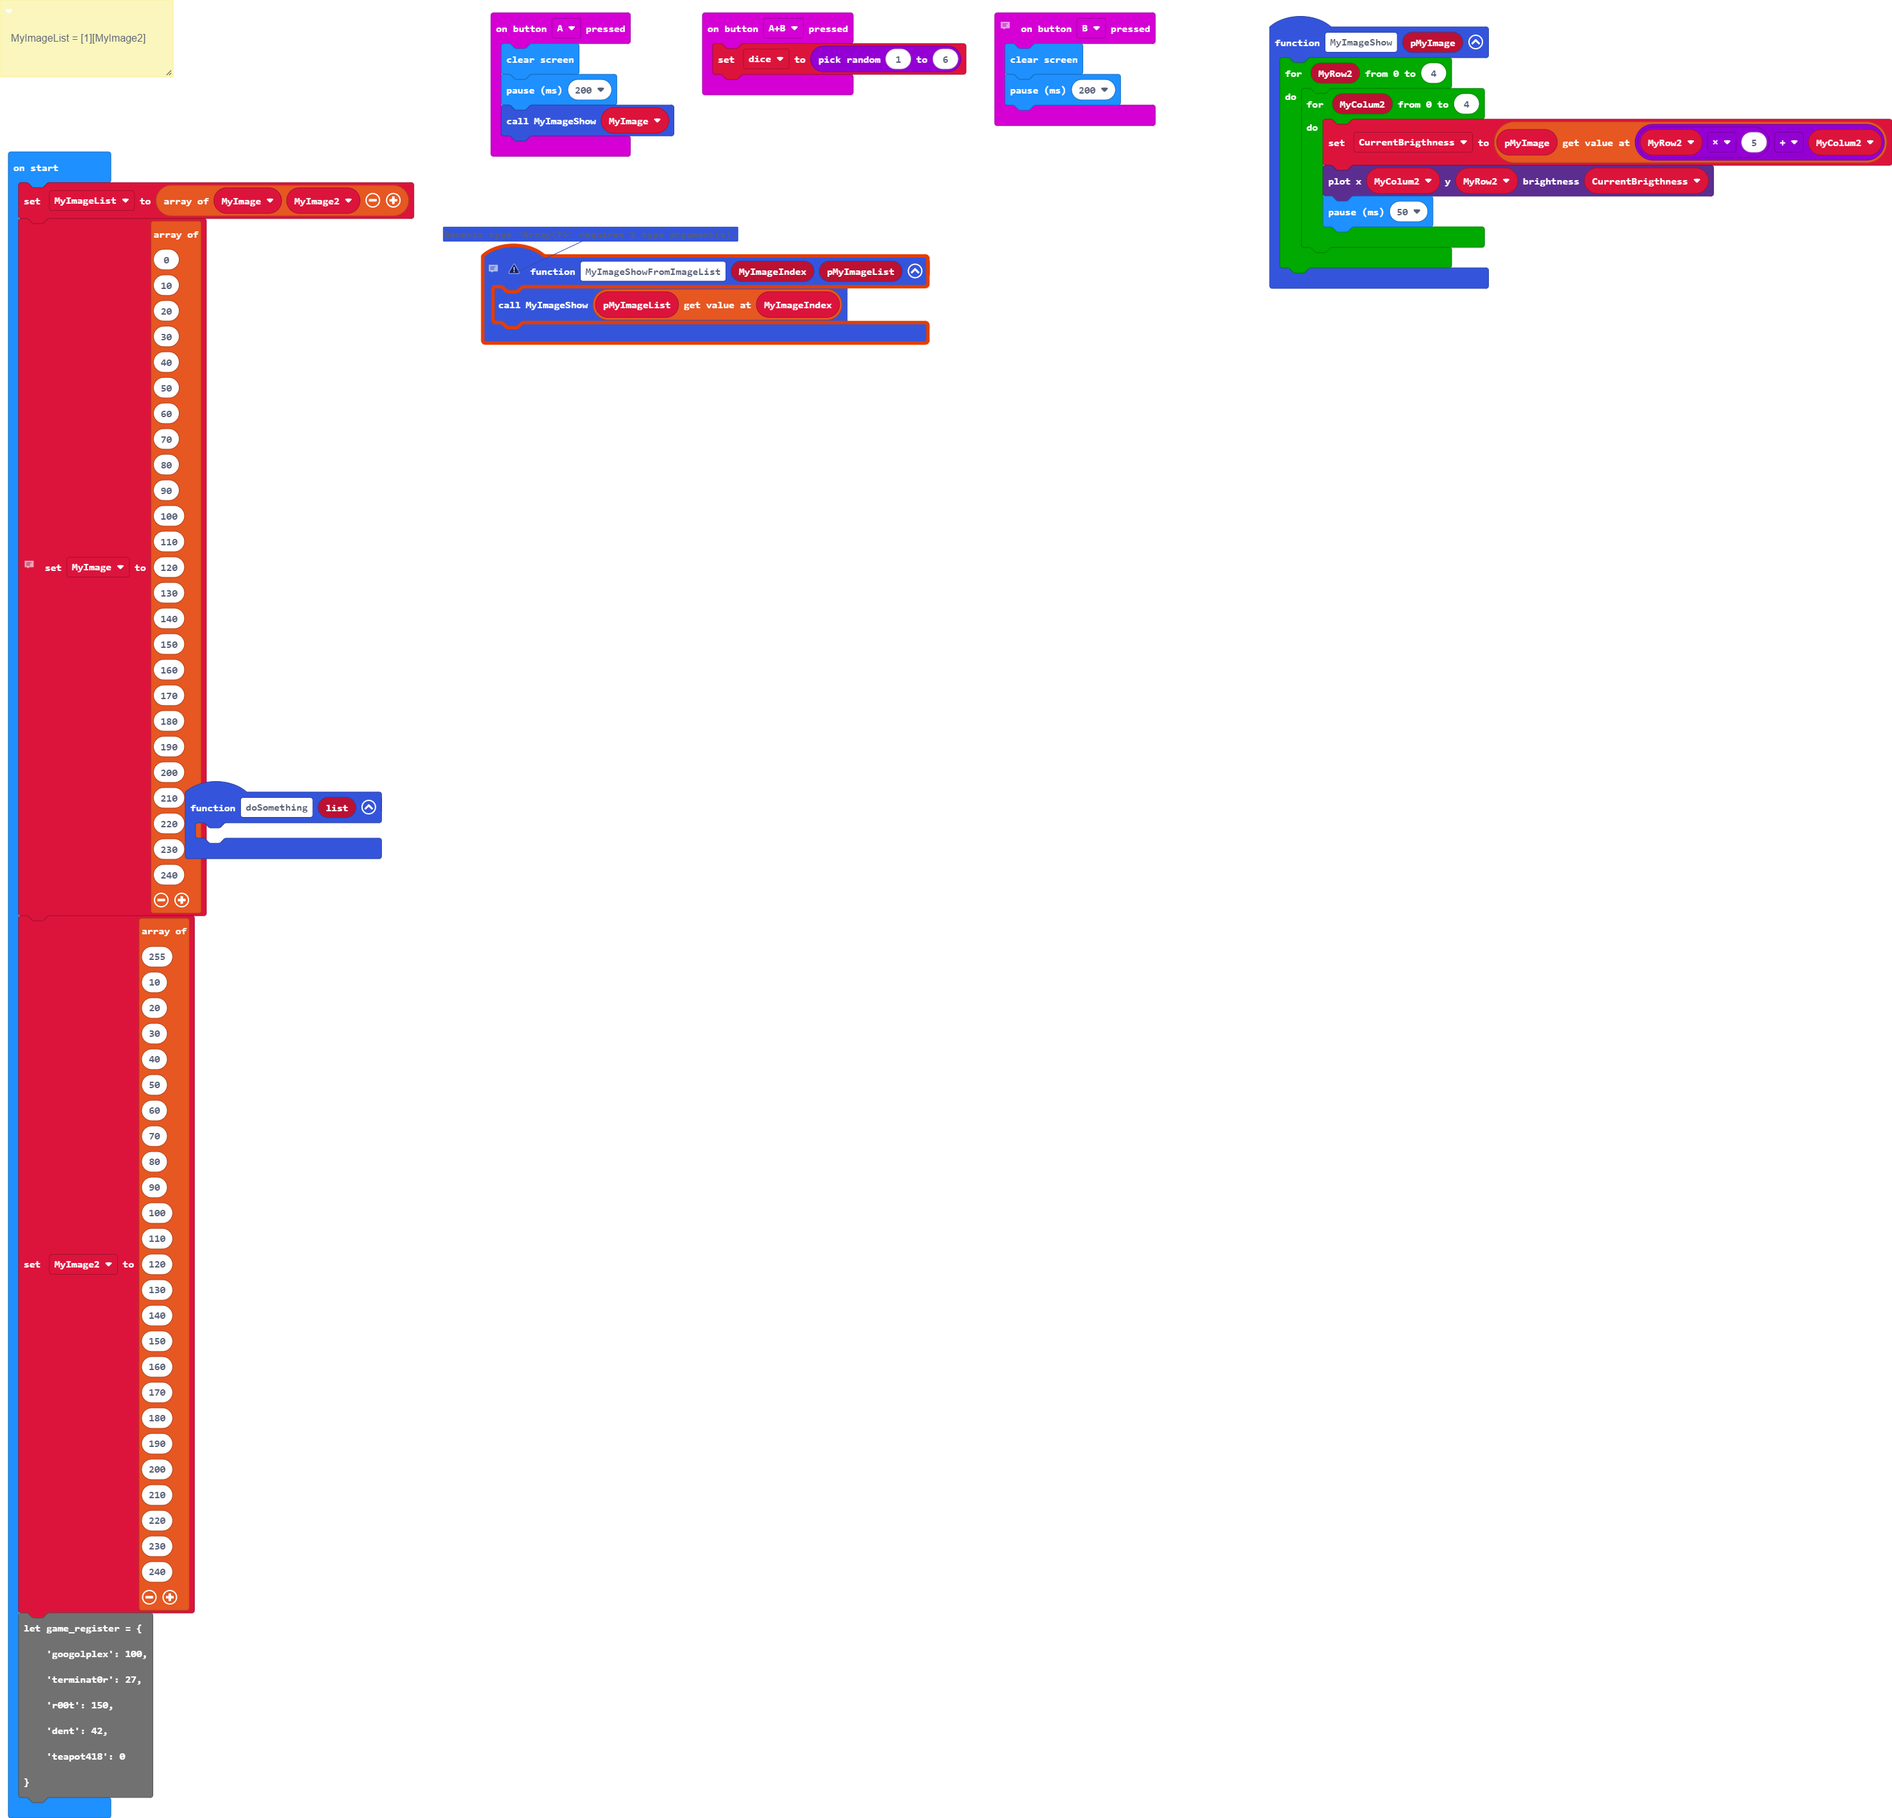
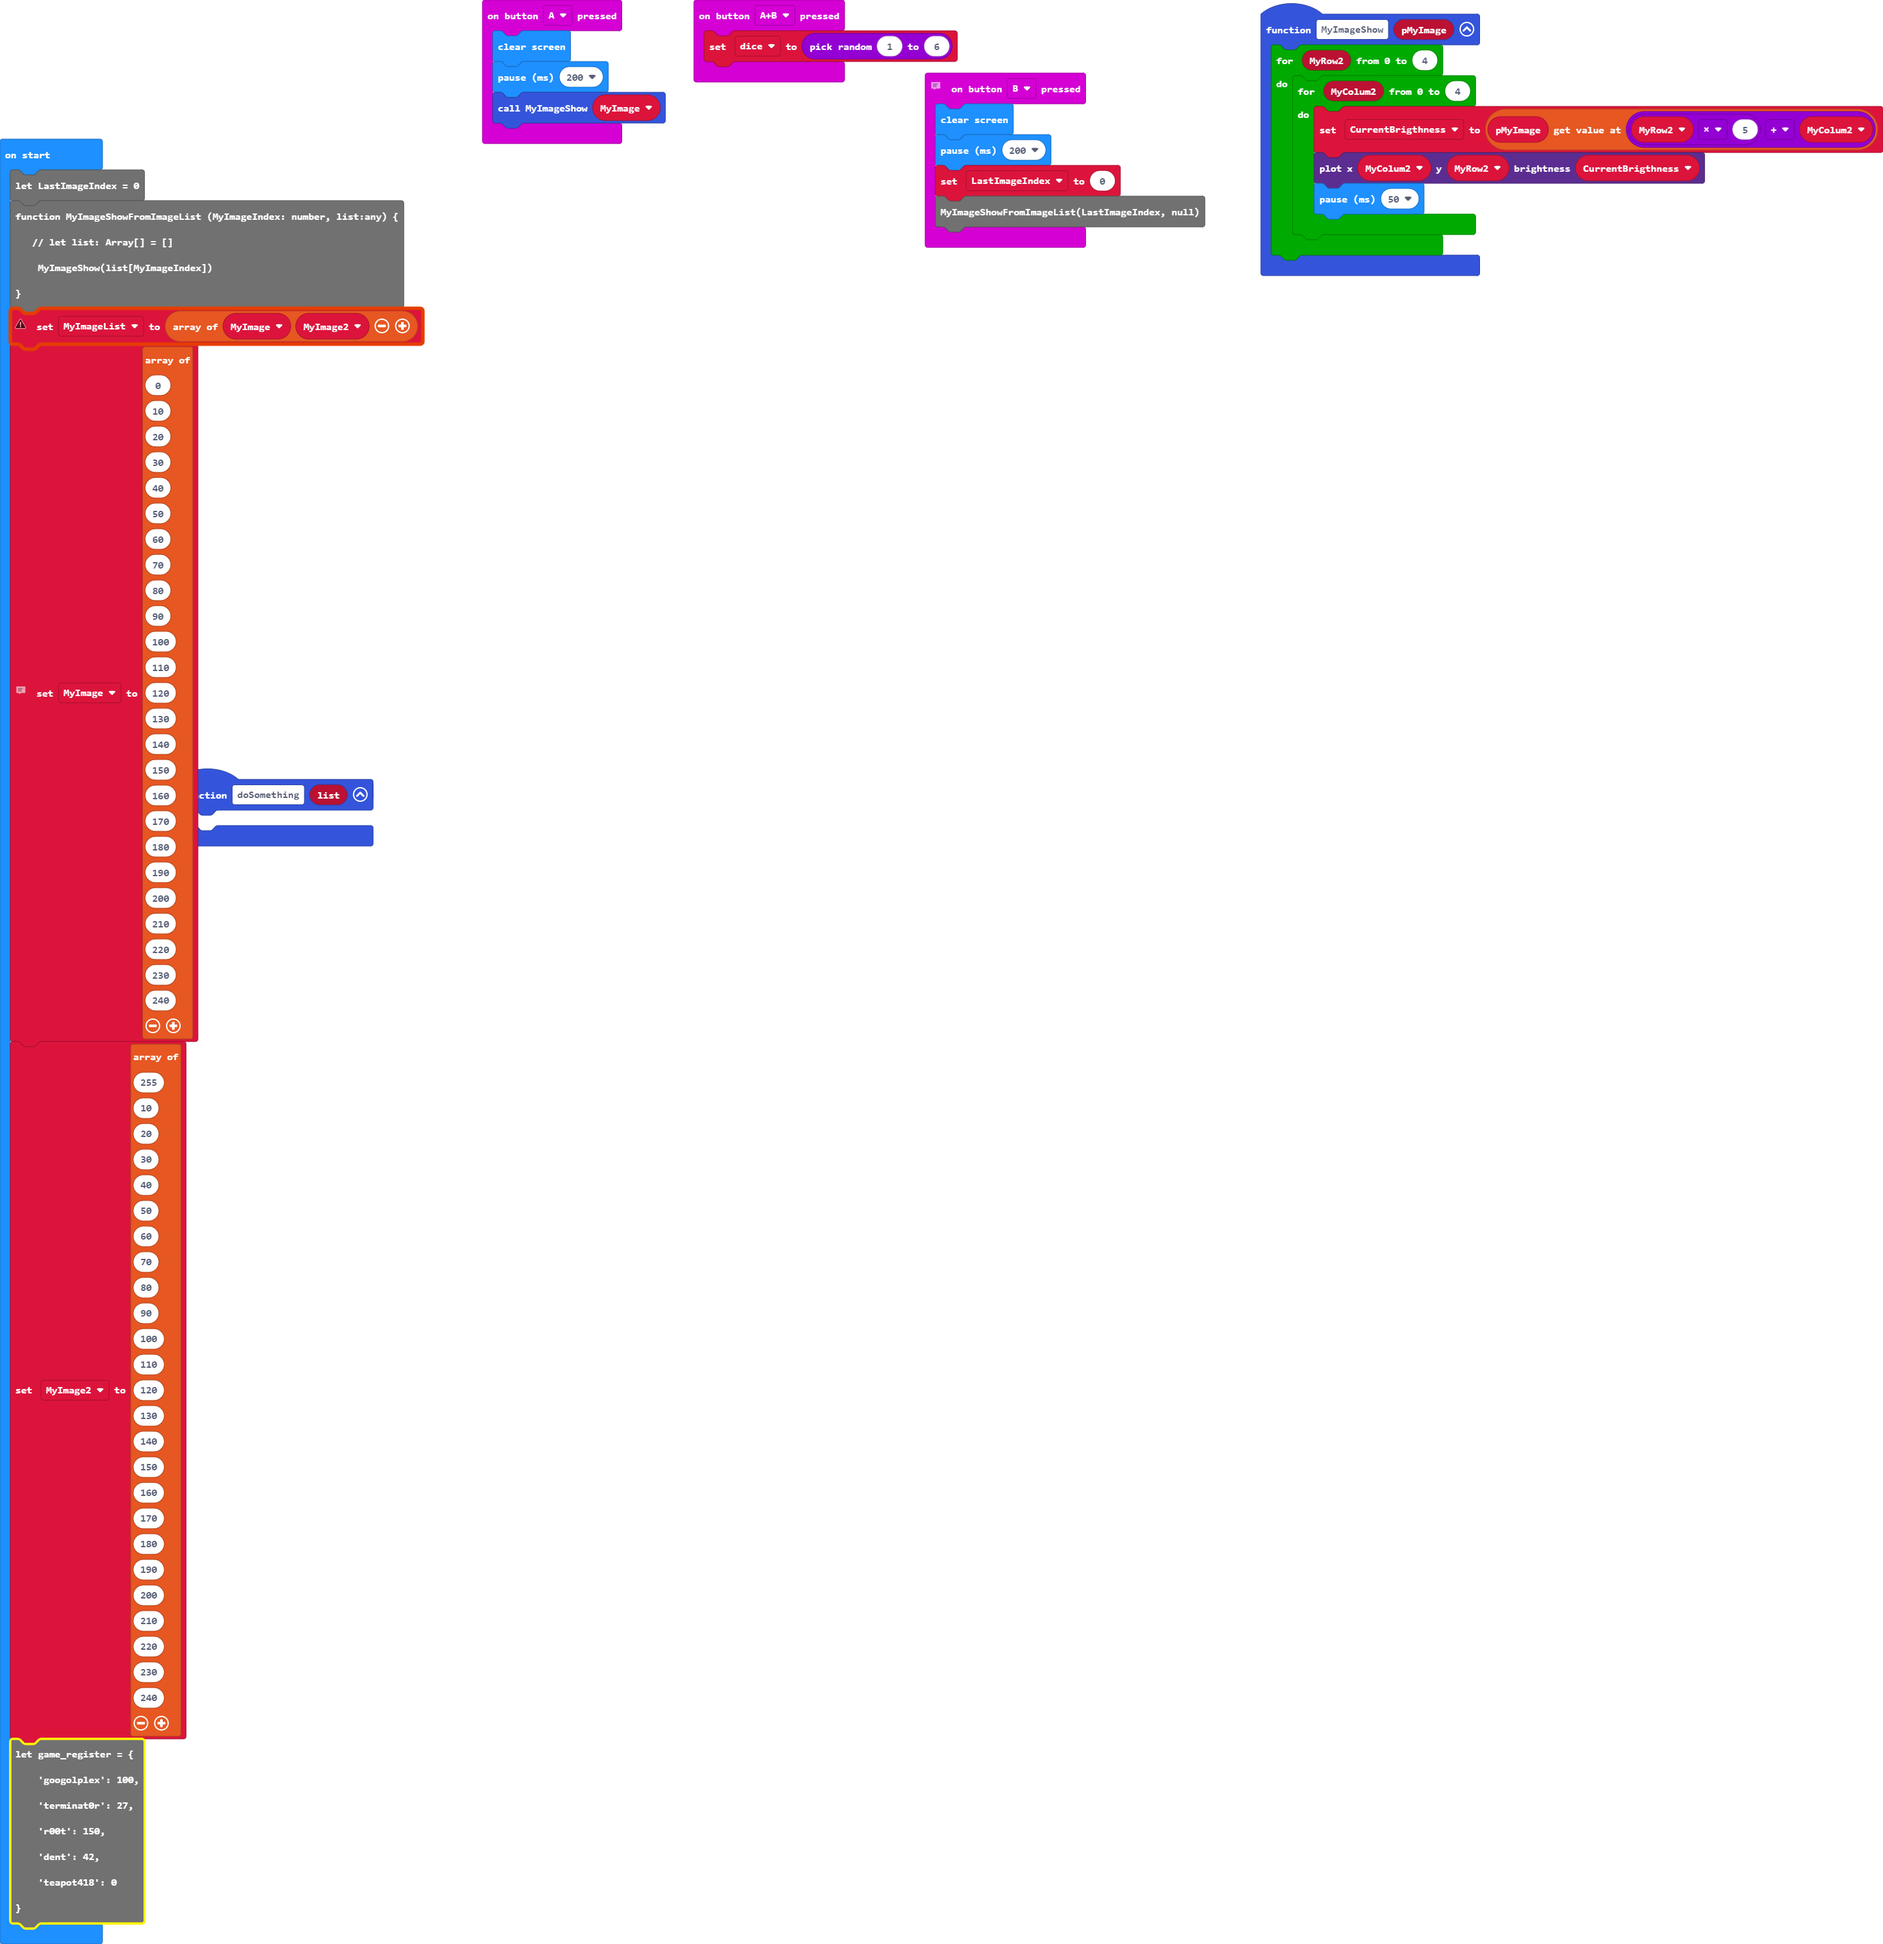
Update main.blocks, main.ts

Changed region(s): [[0.0, 0.0, 1.0, 1.0]]

diff --git a/main.ts b/main.ts
@@ -1,10 +1,3 @@
-/**
- * MyImageList = [1][MyImage2]
- */
-// let MyImageList = [0][MyImage]
-function MyImageShowFromImageList (MyImageIndex: number, pMyImageList: number [][]) {
-    MyImageShow(pMyImageList[MyImageIndex])
-}
 input.onButtonPressed(Button.A, function () {
     basic.clearScreen()
     basic.pause(200)
@@ -16,12 +9,7 @@ function doSomething (list: any[]) {
 input.onButtonPressed(Button.AB, function () {
     dice = randint(1, 6)
 })
-// MyImageShowFromImageList(1, MyImageList)
-input.onButtonPressed(Button.B, function () {
-    basic.clearScreen()
-    basic.pause(200)
-    MyImageShow(MyImageList[0])
-})
+
 function MyImageShow (pMyImage: number[]) {
     for (let MyRow2 = 0; MyRow2 <= 4; MyRow2++) {
         for (let MyColum2 = 0; MyColum2 <= 4; MyColum2++) {
@@ -35,8 +23,11 @@ let CurrentBrigthness = 0
 let dice = 0
 let MyImage2: number[] = []
 let MyImage: number[] = []
-let MyImageList = [MyImage, MyImage2]
-// let MyImageList:  [] []
+let LastImageIndex = 0
+let MyImageList: number[][]
+MyImageList[0] = MyImage
+
+MyImageList[0] =MyImage2
 MyImage = [
 0,
 10,
